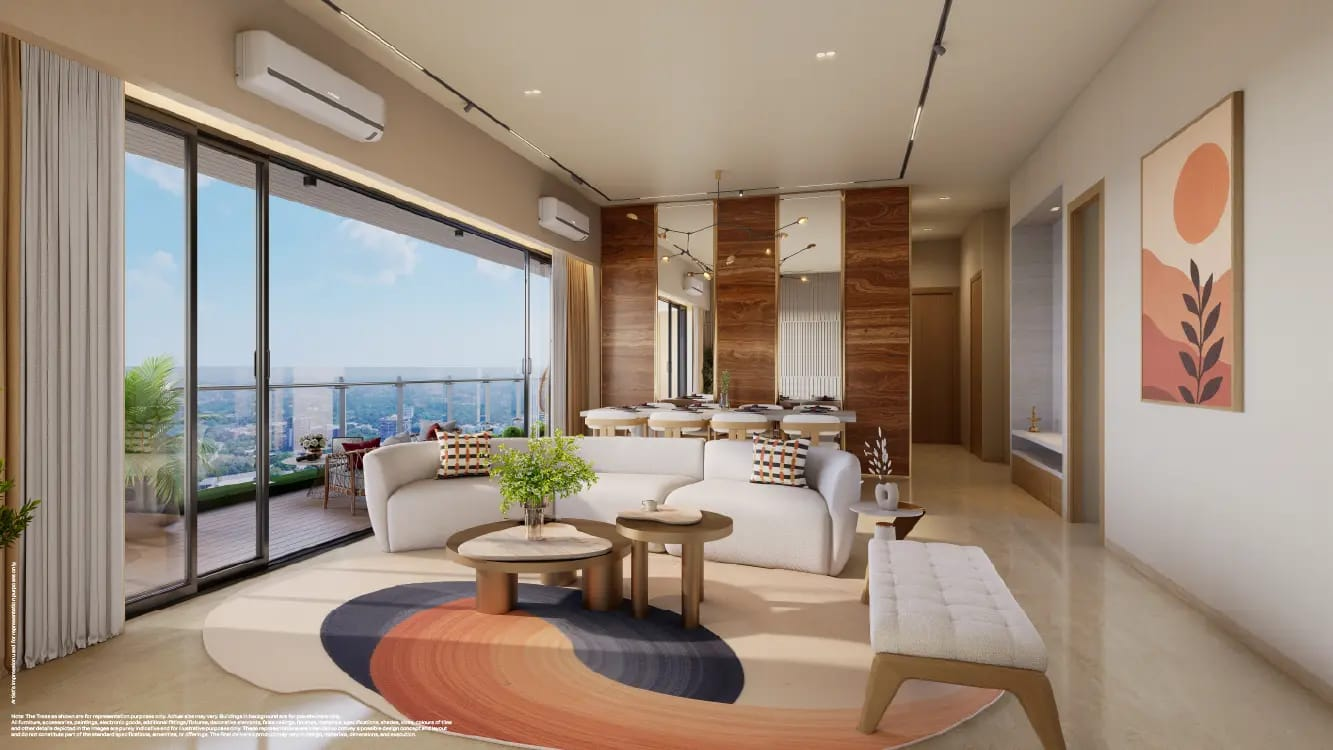
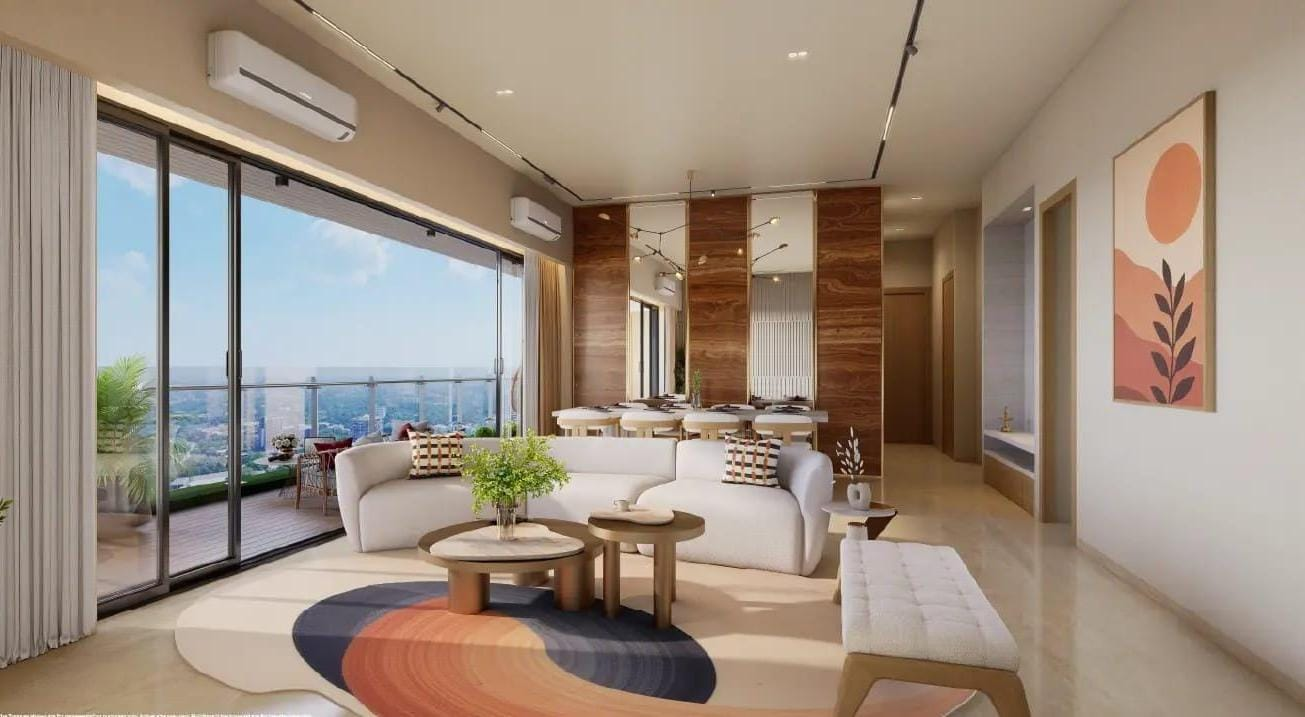
image change

diff --git a/amenities.html b/amenities.html
@@ -592,9 +592,7 @@
                 A World of Leisure, Privately Held
               </h1>
               <p class="text-slate text-sm sm:text-base leading-relaxed mb-6">
-                Over ~20,000 sq. ft. of clubhouse &amp; terrace amenities
-                including a 10,000 sq. ft. courtyard — lap pool, kids’ pool,
-                jacuzzi, mini theatre and rooftop padel court.
+                Enjoy 20,000 sq. ft. of clubhouse amenities, 20,000 sq. ft. of sky amenities, 10,000 sq. ft. of courtyard amenities, and 10,000 sq. ft. of sports amenities.
               </p>
               <a
                 href="index.html#enquire"
